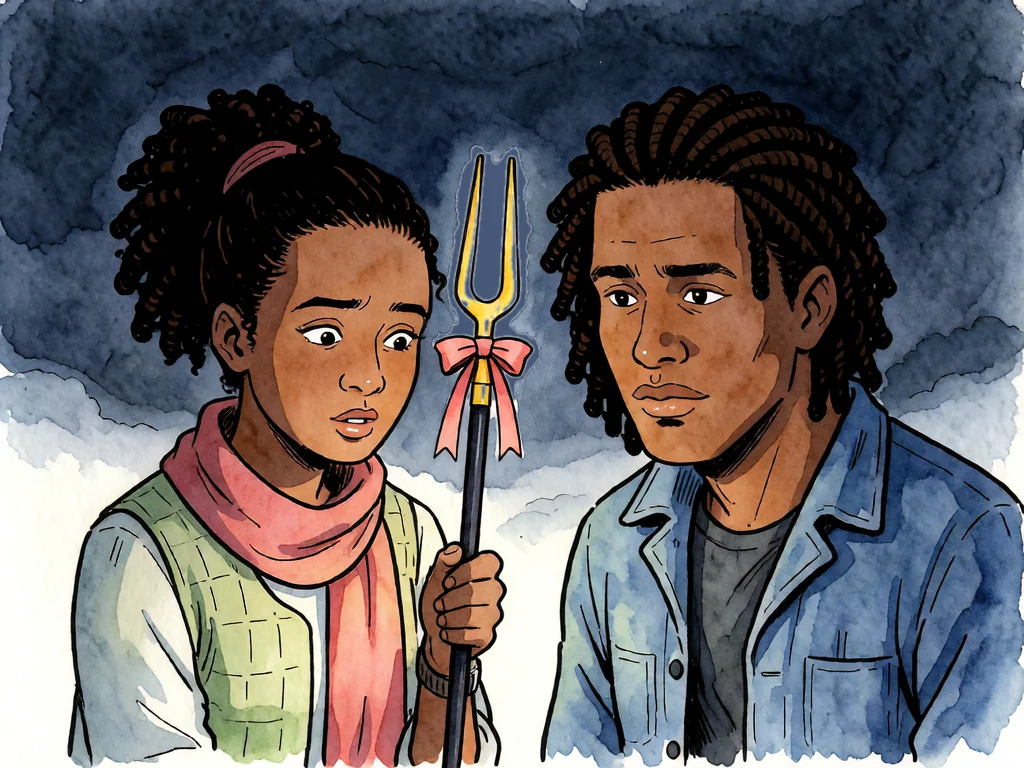
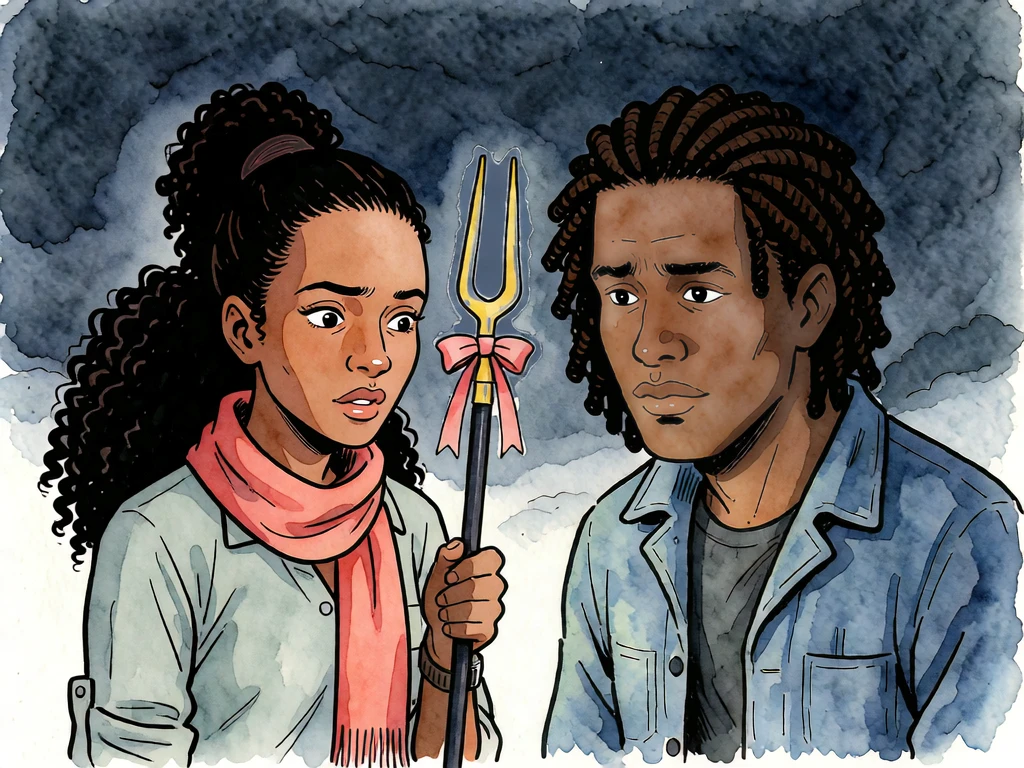
Run 9 picture 2 locked
Claude-Session: https://claude.ai/code/session_01JTmPYBGE5RJi7qTbK5Qior

diff --git a/CREDITS.md b/CREDITS.md
@@ -15,7 +15,7 @@ subscription-only billing so no Spark was spent. Sources are in the project file
 | faces/&lt;who&gt;-&lt;mood&gt;.webp (story portraits: Hesta 3 moods, Lumi 6, Rook 4, Nell 6, Sefa 7, Kes 5; Kes's are drafts from the cast art thread, `sogni/lanternfall/production/kes/game/`, 2026-11-24) | Mood faces (Lumi's calling, grudging and delighted redrawn closed-mouth on 2026-11-23) from the cast art thread (project files `sogni/lanternfall/production/<who>/face-*.png`, 2026-11-23), resized to 160 px WebP |
 | stills/r8-{1,2,7,10,11a,11b}.webp (run 8's reaction stills: Tilda steady, Tilda and Rook at the far well, Rook asking for Granny (redrawn the same day, more concerned, at Ladi's word), the count book, Tilda asking, Rook with no answer) | Drafts drawn by the gameplay thread with krea2_identity_edit_v1_2 on Sogni, 2026-11-24, on Ladi's plan, 0 Spark (project files `gameplay/stills/run8/`), 1024 by 768 as delivered. | The stills panel over the Sieve (`src/engine/stills.ts`) |
 | stills/r8-5.webp, stills/r8-6.webp (run 8's reaction stills at the tug: Tilda lost with Rook uneasy behind her; Tilda watching, Rook looking down) | Drawn by the cutscene thread on Sogni, 2026-11-24, on Ladi's plan; Ladi approved them at 10:44 AM ("Faces look good"). Every step with krea2_identity_edit_v1_2 on the subscription, 0 Spark, as that thread confirmed from its render logs (Tilda alone, Rook added behind her, the face changes on head crops), from the project's own persona sheets lf-tilda and lf-rook-high-grounds; the face transplants, Tilda's chalk smudge and Rook's enlarging are its own script and hand work, no model (sources `sogni/lanternfall/production/story/run8-stills/s5-closer.png` and `s6-closer.png`; delivered in project files `gameplay/stills/run8/`), 1024 by 768 as delivered | The stills panel over the Sieve: 5 as the tug takes hold, 6 cross-fading over it when the tug ends |
-| stills/r9-{0,1,2,3}.webp, stills/r10-{0,1,2}.webp (run 9's four stills; run 10's two panels and its last picture, Lumi's lantern on the stone) | The cutscene and gameplay threads' stills on Sogni, 2026-11-25, on Ladi's plan: run 9's four are that thread's drafts; run 10's panels and last picture were approved by Ladi. Picture r10-1 replaced on 2026-11-26 by `gameplay/stills/run10/r10-1-v2.webp` (from `run10/r10-1-v2-a.png`, krea2_identity_edit_v1_2, 0 Spark), locked by Ladi. ❓ The model's licence terms not read, the same caveat as the other Sogni stills. 1024x768 WebP | Runs 9 and 10 (`src/engine/stills.ts`) |
+| stills/r9-{0,1,2,3}.webp, stills/r10-{0,1,2}.webp (run 9's four stills; run 10's two panels and its last picture, Lumi's lantern on the stone) | The cutscene and gameplay threads' stills on Sogni, 2026-11-25, on Ladi's plan: run 9's four are that thread's drafts, except r9-2, replaced on 2026-11-26 by `gameplay/stills/run9/r9-2-v2.webp` (from `run9/r9-2-v2-k.png`, krea2_identity_edit_v1_2, 0 Spark, a hand-pasted face edit and a skin-tone evening pass), locked by Ladi; run 10's panels and last picture were approved by Ladi. Picture r10-1 replaced on 2026-11-26 by `gameplay/stills/run10/r10-1-v2.webp` (from `run10/r10-1-v2-a.png`, krea2_identity_edit_v1_2, 0 Spark), locked by Ladi. ❓ The model's licence terms not read, the same caveat as the other Sogni stills. 1024x768 WebP | Runs 9 and 10 (`src/engine/stills.ts`) |
 | stills/r6-land-{1,2,3}.webp (run 6's landing pictures: the crowd looking up with Lumi in front, the comet over the island, Hesta landing in the glass) | Drafts drawn by the gameplay thread on Sogni, 2026-11-24, on Ladi's plan, 0 Spark, all with krea2_identity_edit_v1_2; picture 2 redrawn the same day from the game's own island; picture 1 redrawn on 2026-11-25 by the cutscene thread with the cast from their personas (`r6-land-1-cast`, not seen by Ladi yet); picture 3 redrawn on 2026-11-25 by the cutscene thread on Ladi's notes, Hesta alone on the Kindling ground drawn from the game's own map, close, with a wide crater, in her Hesta Gear look (`r6-land-3-gear`, 0 Spark, not seen by Ladi yet) (project files `gameplay/stills/run6/`), 1024 by 768 as delivered | The held pictures of the landing between runs 6 and 7; picture 2 shows only with `?stillsonly`, since the comet now falls on the map |
 | stills/alarm/**/*.webp (the alarm before run 6 as moving layers: the kitchen with its lamp and three cups apart; the falls (redrawn 2026-11-25 by the cutscene thread from the game's own map with Maudie, Orrin and Moth from their personas, `alarm2-falls-map`, on Ladi's note; replaced on 2026-11-26 by `gameplay/stills/run6/r6-alarm-2-v2.webp`, from `alarm2-falls-nolamp-c.png` (krea2_identity_edit_v1_2, 0 Spark, with a hand clean-up of the sand), nobody and no lamp on the sand, locked by Ladi); the Kindling ground close with its fire strong, low, in embers and out, drawn from the game's own story/kindling-ring.webp (replaced on 2026-11-26 by the cutscene thread's `gameplay/stills/run6/alarm3-v2/` frames, both archways gone and the fire visibly dying, locked by Ladi); and in shot4/ the island going down: sky, five layers of cloud, the island cut out with its heart bright and dim, a strip of waterfall, four rocks), stills/r6-alarm-5.webp (Lumi at the door, worried; replaced on 2026-11-26 by the cutscene thread's `gameplay/stills/run6/r6-alarm-5-v2.webp`, her staff longer, locked by Ladi) and stills/r7-end-1.webp (the island clear of the cloud; redrawn 2026-11-25 by the cutscene thread over a capture of the game's own island, `r7-end-1-map`, on Ladi's note, 0 Spark as that thread reports; no longer shown: on 2026-11-26 Ladi asked for the alarm's island shot the other way instead, so the end of run 7 is now shot4's layers played rising out of the cloud, with a small fire drawn in the page in the Kindling brazier) | Drafts drawn by the gameplay thread on Sogni, 2026-11-24, on Ladi's plan, 0 Spark, with krea2_identity_edit_v1_2, the island drawn from the game's own (project files `gameplay/stills/run6/` and `gameplay/stills/run6/alarm-layers/`); the layers turned from PNG to WebP here, same sizes | The alarm's five shots before run 6 (`?noalarm` leaves them out) and the picture at the end of run 7. The alarm's sparks are drawn in the page, and its sounds (bell, timbers, falls, far-off voices, the low roll, rock breaking) are made in the page, no files |
 | stills/alarm/shot4/{island-dim,island-bright,waterfall-strip,debris-1..4}.webp (the alarm's last shot, redrawn so the houses, the landing with its skiff and the lake sit where they are on the map, with the falls down the near face) | Redrawn by the gameplay thread on Sogni, 2026-11-24, straight over a capture of the game's own home island made here (project files `build/home-island-horseshoe/whole/2-day-side.png`); Ladi approved the shot at 11:30 AM ("Shot 4 Descent looks good", draft 5). Model and cost as that thread's other alarm layers (the row above); turned from PNG to WebP here, same sizes; on 2026-11-25 the cutscene thread painted the five small figures out of island-dim and island-bright at Ladi's request (the shot is too wide for people), same size and alpha (`production/story/run6-stills/layers4/nopeople/`) | The island going down, the last shot of the alarm before run 6 |
